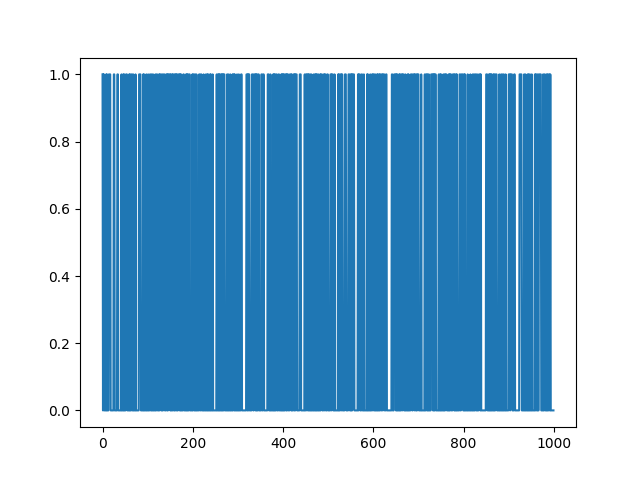
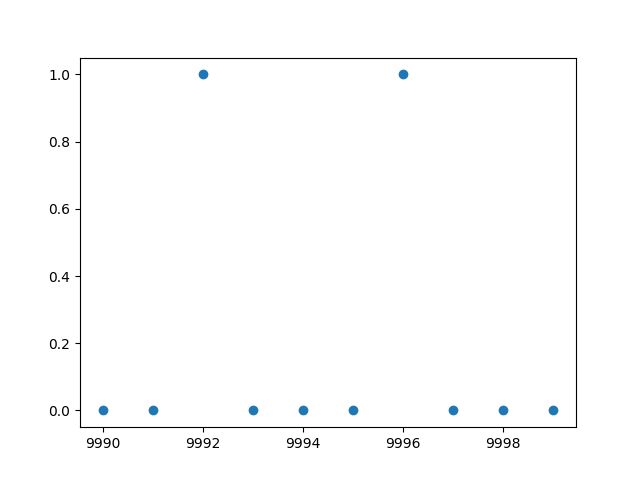
feat: comparison

diff --git a/main.py b/main.py
@@ -26,6 +26,7 @@ def main():
     max_episodes = int(input("Combien de fois voulez vous lancer l'environnement?\n"))
     epsilon = float(input("Variable epsilon (0.5 q learning / 0.9 sarsa) :\n")) # often 0.5 for QLN and 0.9 for SARSA
     
+    nb_ep = [ i for i in range(max_episodes) ]
     if(int(algo) == 0 or int(algo) == -1) :
         beta = float(input("Variable bêta (0.5) :\n"))  # often 0.5
         
@@ -35,9 +36,14 @@ def main():
         print("Q table Q Learning :\n", q_table)
         print("politique QLN = ",qln_pi)
         
-        plt.plot(q_rewards_episode)
+        plt.scatter(nb_ep[-10:], q_rewards_episode[-10:])
         plt.savefig("Q_Learning_rewards")
         
+        print("Simulation QLN ----")
+        print("Nombre de 1 : ",q_rewards_episode.count(1))
+        print("Nombre de 0 : ",q_rewards_episode.count(0))
+        print("Performance simulaion : ",sum(q_rewards_episode)/max_episodes)
+    
     if(int(algo) == 1 or int(algo) == -1): # SARSA
         max_steps = int(input("Maximum d'actions par épisode : (max 100)\n"))
         alpha = float(input("Variable alpha (0.85) :\n")) # often 0.85
@@ -48,17 +54,24 @@ def main():
         sarsa_rewards_epsiode = sarsa_algo.simulation()
         #Visualizing the Q-matrix
         print("Q table Sarsa : \n",q_table)
-        print("politique Sarsa = ",sarsa_pi)
+        print("politique Sarsa : ",sarsa_pi)
         print("Performance :", performance)
         
-        plt.plot(sarsa_rewards_epsiode)
+        plt.scatter(nb_ep[-10:], sarsa_rewards_epsiode[-10:])
         plt.savefig("SARSA_rewards")
+        
+        print("Simulation SARSA ----")
+        print("Nombre de 1 : ",sarsa_rewards_epsiode.count(1))
+        print("Nombre de 0 : ", sarsa_rewards_epsiode.count(0))
+        print("Performance simulaion : ",sum(sarsa_rewards_epsiode)/max_episodes)
         
     if(int(algo) == 2 or int(algo) == -1): # Deep Q Learning
         dqn_algo = grid_dqn.dqn(environnement[choice_env], max_episodes)
         dqn_rewards_episode, name = dqn_algo.algorithm()
-        plt.plot(dqn_rewards_episode)
+        
+        plt.scatter(nb_ep[-10:], dqn_rewards_episode[-10:])
         plt.savefig("DQN_rewards")
+        
         zip_n = name + ".zip"
         with zipfile.ZipFile(zip_n,"r") as zip_ref:
             zip_ref.extractall(name)
@@ -72,10 +85,16 @@ def main():
         torch_var = torch.load(path_v,  map_location=device )
         
         print(policy, policy_opt, torch_var)
+        
+        print("Simulation DQN ----")
+        print("Nombre de 1 : ",dqn_rewards_episode.count(1))
+        print("Nombre de 0 : ",dqn_rewards_episode.count(0))
+        print("Performance simulaion : ",sum(dqn_rewards_episode)/max_episodes)
     if(int(algo) == 3 or int(algo) == -1): # Reinforce
         print(NOT_IMPLEMENTED)
     elif(int(algo) < -1 or int(algo) > 4):
         print("algorithme non valable")
+        
         
     return 0
 

diff --git a/benchmark/algorithms/sarsa/grid_sarsa_v1.py b/benchmark/algorithms/sarsa/grid_sarsa_v1.py
@@ -86,7 +86,7 @@ class sarsa():
         for i in range(self.env.observation_space.n):
             self.pi[i]=int(np.argmax(self.Q[i]))
             
-        return self.Q, self.perf,self.pi
+        return self.Q, self.pi, self.perf
                 
     def simulation(self):
         self.episode = 0
@@ -102,7 +102,7 @@ class sarsa():
                     a = int(self.pi[i])
                     (observation,gain,termine,debug)=self.env.step(a)
                     the_reward = the_reward + gain
-            self.rewards_by_episode.insert(self.episode, the_reward)
+            self.rewards_by_episode.append(the_reward)
         
         return self.rewards_by_episode
 

diff --git a/benchmark/algorithms/dqn/grid_dqn.py b/benchmark/algorithms/dqn/grid_dqn.py
@@ -26,15 +26,15 @@ class dqn():
         
 
     def algorithm(self):
-        total_r = 0
         del self.model # remove to demonstrate saving and loading
         self.model = DQN.load(self.name)
         self.obs = self.env.reset()
         self.episode = 0
         while self.episode < self.total_episodes:
+            total_r = 0
             action, _states = self.model.predict(self.obs, deterministic=True)
             self.obs, reward, self.done, info = self.env.step(action)
-            total_r += reward
+            total_r = total_r + reward
 
             if self.done:
                 self.rewards_episode.append(total_r)
